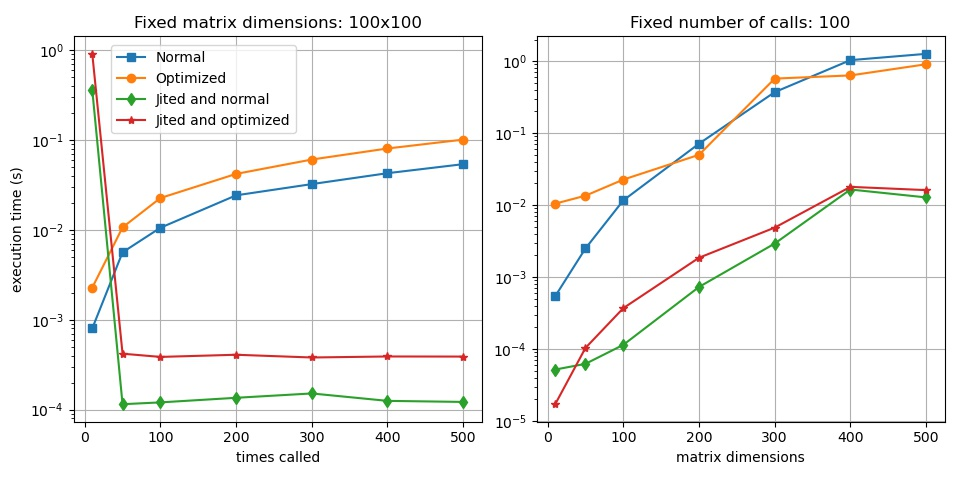
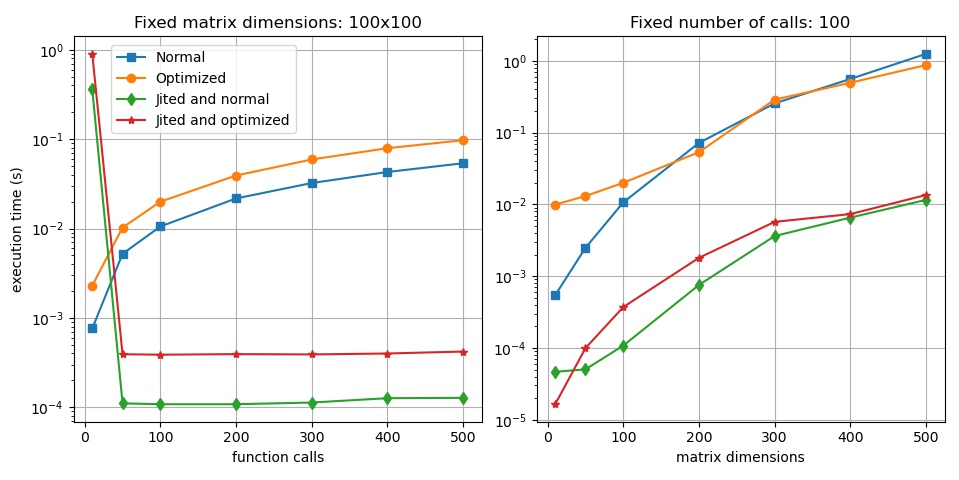
Added documentation for the benchmarks.

diff --git a/speed_up_experiments/experiments.py b/speed_up_experiments/experiments.py
@@ -5,31 +5,14 @@ import time
 import numba as nb
 
 
-dimensions = np.array([10, 50, 100, 200, 300, 400, 500])
-dim = 100
-
-times_called = np.array([10, 50, 100, 200, 300, 400, 500])
-calls = 100
-
-num = rd.random()
-
-# Arrays saving the data for runs differing how often a function is called but with a fixed dimension.
-normal_time_data = np.array([])
-opt_time_data = np.array([])
-jited_normal_time_data = np.array([])
-jited_opt_time_data = np.array([])
-
-# Arrays saving the data for runs differing in dimension but with a fixing the times a function is called.
-normal_dim_data = np.array([])
-opt_dim_data = np.array([])
-jited_normal_dim_data = np.array([])
-jited_opt_dim_data = np.array([])
-
-
-def create_matrix(number, matrix_dimension):
+def create_matrix(number: float, matrix_dimension: int) -> np.ndarray:
     """
-
-    :return:
+    This function creates a quadratic matrix with a populated diagonal, populated off-diagonals and dimension
+    matrix_dimension. All entries in the diagonal are (1 - 2 * number) while the entreis in the off-diagonal are the
+    number number.
+    :param number: A float number which populates the off-diagonals of the matrix.
+    :param matrix_dimension: Dimension of the quadratic matrix which is returned.
+    :return: The matrix constructed as described above.
     """
     matrix = (1 - 2 * number) * np.identity(matrix_dimension)
     np.fill_diagonal(matrix[1:], number)
@@ -37,86 +20,78 @@ def create_matrix(number, matrix_dimension):
     return matrix
 
 
-def mat_mul(matrix1, matrix2):
+def mat_mul(matrix1: np.ndarray, matrix2: np.ndarray) -> np.ndarray:
     """
-
-    :param matrix1:
-    :param matrix2:
-    :return:
+    Calculates the anti-commutator of two matrices.
+    :param matrix1: A matrix.
+    :param matrix2: Another matrix.
+    :return: The Anti-commutator matrix1 and matrix2.
     """
     return np.dot(matrix1, matrix2) + np.dot(matrix1, matrix2)
 
 
-def opt_mat_mul(number, mat_dim, matrix):
+def opt_mat_mul(number: float, matrix_dimension: int, matrix: np.ndarray) -> np.ndarray:
     """
-
-    :param number:
-    :param mat_dim:
-    :param matrix:
-    :return:
+    This function is supposed to be an optimized version of the anti commutator with a matrix that is created by the
+    create_matrix function.
+    :param number: Float number for the created matrix.
+    :param matrix_dimension: Dimension of the created matrix.
+    :param matrix: Matrix with which the matrix which is otherwise created by create_matrix is multiplied
+    :return: The Anti-commutator.
     """
-    temp1 = np.roll(matrix, mat_dim)
-    temp2 = np.roll(matrix, -mat_dim)
-    temp3 = np.roll(matrix.T, mat_dim)
-    temp4 = np.roll(matrix.T, -mat_dim)
-    zeros = np.zeros(mat_dim)
+    temp1 = np.roll(matrix, matrix_dimension)
+    temp2 = np.roll(matrix, -matrix_dimension)
+    temp3 = np.roll(matrix.T, matrix_dimension)
+    temp4 = np.roll(matrix.T, -matrix_dimension)
+    zeros = np.zeros(matrix_dimension)
     temp1[0] = zeros
-    temp2[mat_dim - 1] = zeros
+    temp2[matrix_dimension - 1] = zeros
     temp3[0] = zeros
-    temp4[mat_dim - 1] = zeros
+    temp4[matrix_dimension - 1] = zeros
     return (2. - 4. * number) * matrix + number * (temp1 + temp2 + temp3.T + temp4.T)
 
 
 # print(opt_mat_mul() - mat_mul())
 
 
-def run_mat_mul(matrix1, matrix2, number_of_calls):
+def run_mat_mul(matrix1: np.ndarray, matrix2: np.ndarray, number_of_calls: int):
     """
-
-    :param matrix1:
-    :param matrix2:
-    :param number_of_calls:
-    :return:
+    Runs the mat_mul function with matrix1 and matrix2 number_of_calls times.
+    :param matrix1: A matrix.
+    :param matrix2: Another matrix.
+    :param number_of_calls: How often to call the mat_mul function
+    :return: None.
     """
     for _ in range(number_of_calls):
         mat_mul(matrix1, matrix2)
 
 
-def run_opt_mat_mul(number, matrix, mat_dim, number_of_calls):
+def run_opt_mat_mul(number: float, matrix: np.ndarray, mat_dim: int, number_of_calls: int):
     """
-
-    :param number:
-    :param matrix:
-    :param mat_dim:
-    :param number_of_calls:
-    :return:
+    Runs the opt_mat_mul function number_of_calls times. Matrix is the matrix to multiplied with the dimension mat_dim.
+    :param number: Equivalent of the number used in the create_matrix function.
+    :param matrix: Matrix to be multiplied.
+    :param mat_dim: Dimension of the matrix.
+    :param number_of_calls: How often the opt_mat_mal function is called.
+    :return: None
     """
     for _ in range(number_of_calls):
         opt_mat_mul(number, mat_dim, matrix)
 
 
 @nb.jit(nopython=True)
-def run_jited_mat_mul(matrix1, matrix2, number_of_calls):
+def run_jited_mat_mul(matrix1: np.ndarray, matrix2: np.ndarray, number_of_calls: int) -> np.ndarray:
     """
-
-    :param matrix1:
-    :param matrix2:
-    :param number_of_calls:
-    :return:
+    Jited version of the run_mat_mul function.
     """
     for _ in range(number_of_calls):
         return np.dot(matrix1, matrix2) + np.dot(matrix1, matrix2)
 
 
 @nb.jit(nopython=True)
-def run_jited_opt_mat_mul(matrix, mat_dim, number, number_of_calls):
+def run_jited_opt_mat_mul(matrix: np.ndarray, mat_dim: int, number: float, number_of_calls: int) -> np.ndarray:
     """
-
-    :param number:
-    :param mat_dim:
-    :param matrix:
-    :param number_of_calls:
-    :return:
+    JIted version of the run_opt_mat_mul function.
     """
     for _ in range(number_of_calls):
         temp1 = np.roll(matrix, mat_dim)
@@ -131,9 +106,37 @@ def run_jited_opt_mat_mul(matrix, mat_dim, number, number_of_calls):
         return (2. - 4. * number) * matrix + number * (temp1 + temp2 + temp3.T + temp4.T)
 
 
+# Dimensions used in the dimension benchmark.
+dimensions = np.array([10, 50, 100, 200, 300, 400, 500])
+
+# Fixed dimension for the number of calls benchmark.
+dim = 100
+
+# Number of calls used in the benchmark for the number of calls.
+times_called = np.array([10, 50, 100, 200, 300, 400, 500])
+
+# Fixed number of calls for the dimension benchmark.
+calls = 100
+
+# Arrays saving the data for runs differing how often a function is called but with a fixed dimension.
+normal_time_data = np.array([])
+opt_time_data = np.array([])
+jited_normal_time_data = np.array([])
+jited_opt_time_data = np.array([])
+
+# Arrays saving the data for runs differing in dimension but with a fixing the times a function is called.
+normal_dim_data = np.array([])
+opt_dim_data = np.array([])
+jited_normal_dim_data = np.array([])
+jited_opt_dim_data = np.array([])
+
+# Create a random number and two matrices accordingly.
+num = rd.random()
 multiply_matrix = create_matrix(num, dim)
 state_matrix = np.random.rand(dim, dim)
 
+# Run the following loops for the benchmark.
+# The code could probably be a lot cleaner please don't hate me for this.
 for times in times_called:
     start1 = time.time()
     run_jited_opt_mat_mul(state_matrix, dim, num, times)
@@ -180,28 +183,38 @@ for dimension in dimensions:
     end4 = time.time()
     opt_dim_data = np.append(opt_dim_data, end4 - start4)
 
+# --------------------
+# Plotting the results
+# --------------------
+
+# Axes and fiure
 fig, (ax1, ax2) = plt.subplots(1, 2, figsize=(10., 4.8))
 
+# Graphs for the first plot.
 ax1.plot(times_called, normal_time_data, marker="s")
 ax1.plot(times_called, opt_time_data, marker="o")
 ax1.plot(times_called, jited_normal_time_data, marker="d")
 ax1.plot(times_called, jited_opt_time_data, marker="*")
 
+# Labels ad legends for the first plot
 ax1.set_ylabel("execution time (s)")
-ax1.set_xlabel("times called")
+ax1.set_xlabel("function calls")
 ax1.set_yscale("log")
 ax1.set_title(f"Fixed matrix dimensions: {dim}x{dim}")
 ax1.legend(["Normal", "Optimized", "Jited and normal", "Jited and optimized"], loc="upper left", bbox_to_anchor=(0.075, .995))
 
+# Graphs for the second plot
 ax2.plot(dimensions, normal_dim_data, marker="s")
 ax2.plot(dimensions, opt_dim_data, marker="o")
 ax2.plot(dimensions, jited_normal_dim_data, marker="d")
 ax2.plot(dimensions, jited_opt_dim_data, marker="*")
 
+# Labels and legends for th second plot
 ax2.set_xlabel("matrix dimensions")
 ax2.set_yscale("log")
 ax2.set_title(f"Fixed number of calls: {calls}")
 
+# Show everything
 ax1.grid(True)
 ax2.grid(True)
 plt.tight_layout()
